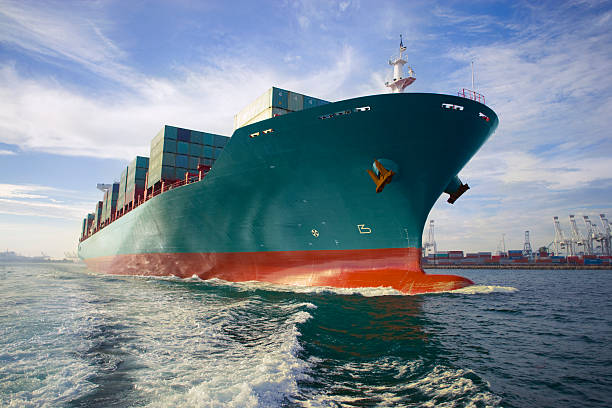
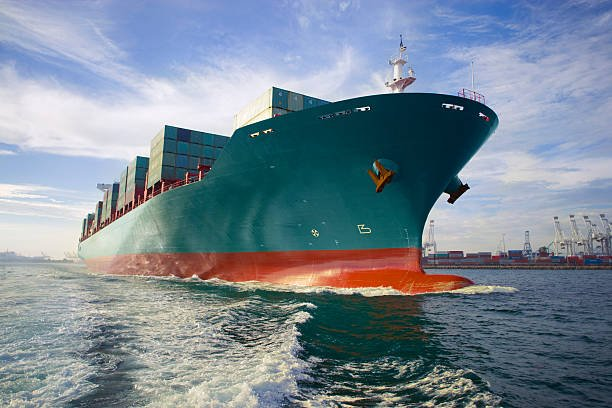
fix(seo): update homepage site name, add WebSite schema, and add workers.dev 301 safeguard

diff --git a/middleware.ts b/middleware.ts
@@ -1,25 +1,95 @@
 import { NextResponse, type NextRequest } from 'next/server';
 import { createServerClient } from '@supabase/ssr';
 import { getStaticRedirectManifest } from '@/lib/cms/redirect-exporter';
+import { getCloudflareContext } from '@opennextjs/cloudflare';
 
 export async function middleware(request: NextRequest) {
-  const { pathname } = request.nextUrl;
+  // 0. Dedicated Host Redirect for workers.dev safeguard
+  const rawHost = request.headers.get('host') || request.nextUrl.hostname;
+  const host = rawHost.split(':')[0].toLowerCase();
+  if (host === 'cargo.raahiinternational4.workers.dev') {
+    const { pathname, search } = request.nextUrl;
+    return NextResponse.redirect(`https://raahiinternational.com${pathname}${search}`, 301);
+  }
 
-  // 1. Static 301 Redirect Manifest
+  const { pathname } = request.nextUrl;
+  const method = request.method;
+
+  // 1. Static 301 Redirect Manifest (Fast path)
   const redirects = getStaticRedirectManifest();
   const matchedRedirect = redirects.find((r) => r.source_path === pathname);
   if (matchedRedirect) {
     return NextResponse.redirect(new URL(matchedRedirect.target_path, request.url), matchedRedirect.status_code);
   }
 
-  // 2. EXEMPT /admin/login explicitly - return plain NextResponse.next() immediately
-  if (pathname.startsWith('/admin/login')) {
+  // 2. EXEMPT /admin/login GET requests explicitly - return plain NextResponse.next() immediately
+  if (pathname.startsWith('/admin/login') && method === 'GET') {
     return NextResponse.next();
+  }
+
+  // 3. Endpoint-Specific Rate Limiting (SENSITIVE / MUTATING POST REQUESTS ONLY)
+  // Public GET page requests, RSC flight prefetch calls, and static assets bypass application rate limiting completely.
+  if (method === 'POST') {
+    let rateLimitKeyPrefix: string | null = null;
+
+    if (pathname === '/api/quote') {
+      rateLimitKeyPrefix = 'quote:';
+    } else if (pathname === '/api/track') {
+      rateLimitKeyPrefix = 'track:';
+    } else if (pathname.startsWith('/admin/login')) {
+      rateLimitKeyPrefix = 'auth:';
+    }
+
+    if (rateLimitKeyPrefix) {
+      try {
+        const ctx = getCloudflareContext();
+        const env = ctx?.env as { RATE_LIMITER?: { limit: (opts: { key: string }) => Promise<{ success: boolean }> } } | undefined;
+        if (env?.RATE_LIMITER) {
+          const ip = request.headers.get('cf-connecting-ip') || request.headers.get('x-forwarded-for') || '127.0.0.1';
+          const { success } = await env.RATE_LIMITER.limit({ key: `${rateLimitKeyPrefix}${ip}` });
+          if (!success) {
+            const isApi = pathname.startsWith('/api/');
+            if (isApi) {
+              return NextResponse.json(
+                {
+                  success: false,
+                  error: 'Too many requests. Please wait 60 seconds before trying again.',
+                  retryAfter: 60,
+                },
+                {
+                  status: 429,
+                  headers: {
+                    'Retry-After': '60',
+                    'Content-Type': 'application/json',
+                  },
+                }
+              );
+            }
+            return NextResponse.json(
+              {
+                success: false,
+                error: 'Too many authentication attempts. Please wait 60 seconds before trying again.',
+                retryAfter: 60,
+              },
+              {
+                status: 429,
+                headers: {
+                  'Retry-After': '60',
+                  'Content-Type': 'application/json',
+                },
+              }
+            );
+          }
+        }
+      } catch {
+        // Gracefully continue if Cloudflare context is not available in non-CF environments
+      }
+    }
   }
 
   const response = NextResponse.next();
 
-  // 3. Refresh Supabase Session Cookies ONLY for protected /admin routes
+  // 4. Refresh Supabase Session Cookies ONLY for protected /admin routes
   if (pathname.startsWith('/admin')) {
     const supabaseUrl = process.env.NEXT_PUBLIC_SUPABASE_URL || '';
     const supabaseKey = process.env.NEXT_PUBLIC_SUPABASE_PUBLISHABLE_KEY || '';
@@ -45,5 +115,5 @@ export async function middleware(request: NextRequest) {
 }
 
 export const config = {
-  matcher: ['/admin/:path*', '/((?!_next/static|_next/image|favicon.ico).*)'],
+  matcher: ['/((?!_next/static|_next/image|favicon.ico|.*\\.(?:svg|png|jpg|jpeg|gif|webp|ico|css|js|woff2?)).*)'],
 };

diff --git a/app/sitemap.ts b/app/sitemap.ts
@@ -1,8 +1,11 @@
 import { MetadataRoute } from 'next';
-import { siteConfig } from '@/config/site.config';
 import { getEnabledServices } from '@/config/services.config';
 import { getPublishedLocations } from '@/lib/locations/location-content';
-import { getSanityLocationsList } from '@/sanity/lib/fetch';
+import {
+  getSanityLocationsList,
+  getSanityDestinationsList,
+  getSanityGuidesList,
+} from '@/sanity/lib/fetch';
 import { getPublishedDestinations } from '@/lib/destinations/destination-content';
 import { getPublishedStaticArticles } from '@/lib/guides/guide-content';
 
@@ -18,7 +21,6 @@ export default async function sitemap(): Promise<MetadataRoute.Sitemap> {
     '/locations',
     '/quote',
     '/track',
-    '/contact',
     '/guides',
   ];
 
@@ -34,32 +36,43 @@ export default async function sitemap(): Promise<MetadataRoute.Sitemap> {
   const activeLocations = sanityLocations.length > 0 ? sanityLocations : fallbackLocations;
   const locationRoutes = activeLocations.map((l) => `/locations/${l.slug}`);
 
-  // 3. Dynamically map ONLY published & verified destination countries & cities
-  const publishedDestinations = await getPublishedDestinations();
+  // 3. Dynamically map ONLY published & verified destination countries & cities from Sanity
+  const sanityDestinations = await getSanityDestinationsList();
+  const fallbackDestinations = await getPublishedDestinations();
+  const activeDestinations = sanityDestinations.length > 0 ? sanityDestinations : fallbackDestinations;
   const destinationRoutes: string[] = [];
 
-  for (const country of publishedDestinations) {
-    destinationRoutes.push(`/destinations/${country.slug}`);
-    for (const city of country.cities) {
-      if (city.status === 'published' && city.isVerified === true && city.isIndexable === true) {
-        destinationRoutes.push(`/destinations/${country.slug}/${city.slug}`);
+  for (const country of activeDestinations) {
+    if (country.slug) {
+      destinationRoutes.push(`/destinations/${country.slug}`);
+    }
+    if (country.cities && country.cities.length > 0) {
+      for (const city of country.cities) {
+        if (city.slug) {
+          destinationRoutes.push(`/destinations/${country.slug}/${city.slug}`);
+        }
       }
     }
   }
 
-  // 4. Dynamically map ONLY published & verified educational guides (excluding redirected guides)
-  const publishedArticles = getPublishedStaticArticles();
-  const guideRoutes = publishedArticles
-    .filter((a) => a.slug !== 'air-vs-sea-cargo')
+  // 4. Dynamically map ONLY published & verified educational guides from Sanity (excluding redirected guides)
+  const sanityGuides = await getSanityGuidesList();
+  const fallbackArticles = getPublishedStaticArticles();
+  const activeGuides = sanityGuides.length > 0 ? sanityGuides : fallbackArticles;
+  const guideRoutes = activeGuides
+    .filter((a) => a.slug && a.slug !== 'air-vs-sea-cargo')
     .map((a) => `/guides/${a.slug}`);
 
-  const allRoutes = [
-    ...staticRoutes,
-    ...serviceRoutes,
-    ...locationRoutes,
-    ...destinationRoutes,
-    ...guideRoutes,
-  ];
+  // Deduplicate all generated routes to guarantee clean unique entries
+  const allRoutes = Array.from(
+    new Set([
+      ...staticRoutes,
+      ...serviceRoutes,
+      ...locationRoutes,
+      ...destinationRoutes,
+      ...guideRoutes,
+    ])
+  );
 
   return allRoutes.map((route) => ({
     url: `${baseUrl}${route}`,

diff --git a/app/(public)/page.tsx b/app/(public)/page.tsx
@@ -23,15 +23,10 @@ export async function generateMetadata(): Promise<Metadata> {
     getSanitySiteSettingsData({ stega: false }),
   ]);
 
-  const title =
-    sanityHomepage?.seo?.metaTitle ||
-    sanitySiteSettings?.defaultSeoTitle ||
-    'Raahi International — Cargo Shipping & Door-to-Door Delivery From Pakistan';
+  const title = 'Raahi International | International Cargo & Logistics';
 
   const description =
-    sanityHomepage?.seo?.metaDescription ||
-    sanitySiteSettings?.defaultSeoDescription ||
-    'Reliable air cargo and sea cargo shipping with doorstep pickup across Pakistan and door-to-door delivery to UK, UAE, USA, Canada, KSA & worldwide.';
+    'International cargo and door-to-door shipping from Pakistan by air and sea. Get a fast quote and reliable delivery from Raahi International.';
 
   const socialImage =
     sanityHomepage?.seo?.socialImage ||
@@ -43,6 +38,8 @@ export async function generateMetadata(): Promise<Metadata> {
     openGraph: {
       title,
       description,
+      url: 'https://raahiinternational.com/',
+      siteName: 'Raahi International',
       images: socialImage ? [{ url: socialImage }] : [],
     },
     twitter: {
@@ -64,8 +61,20 @@ export default async function HomePage() {
 
   const activeWhatsapp = sanitySiteSettings?.whatsappNumber || business.whatsappNumber;
 
+  const websiteJsonLd = {
+    '@context': 'https://schema.org',
+    '@type': 'WebSite',
+    name: 'Raahi International',
+    alternateName: 'Raahi',
+    url: 'https://raahiinternational.com/',
+  };
+
   return (
     <div className="w-full pb-16 sm:pb-0">
+      <script
+        type="application/ld+json"
+        dangerouslySetInnerHTML={{ __html: JSON.stringify(websiteJsonLd) }}
+      />
       {/* 01. HERO */}
       {blocks.hero?.enabled && (
         <HeroSection

diff --git a/components/sections/ServicesOverview.tsx b/components/sections/ServicesOverview.tsx
@@ -97,7 +97,7 @@ export const ServicesOverview: React.FC<ServicesOverviewProps> = ({
                   src={airImage}
                   alt={airAlt}
                   fill
-                  sizes="(max-width: 768px) 100vw, 600px"
+                  sizes="(max-width: 768px) 90vw, 600px"
                   className="object-cover object-center group-hover:scale-102 transition-transform duration-500"
                 />
                 <div className="absolute inset-0 bg-gradient-to-t from-brand-black/90 via-transparent to-transparent" />
@@ -139,7 +139,7 @@ export const ServicesOverview: React.FC<ServicesOverviewProps> = ({
                   src={seaImage}
                   alt={seaAlt}
                   fill
-                  sizes="(max-width: 768px) 100vw, 600px"
+                  sizes="(max-width: 768px) 90vw, 600px"
                   className="object-cover object-center group-hover:scale-102 transition-transform duration-500"
                 />
                 <div className="absolute inset-0 bg-gradient-to-t from-brand-black/90 via-transparent to-transparent" />

diff --git a/next.config.ts b/next.config.ts
@@ -1,14 +1,42 @@
 import type { NextConfig } from "next";
 
 const nextConfig: NextConfig = {
+  images: {
+    formats: ['image/avif', 'image/webp'],
+    minimumCacheTTL: 31536000,
+  },
   transpilePackages: [
     'next-sanity',
     'sanity',
     '@sanity/sdk-react',
     '@sanity/workbench',
   ],
+  async headers() {
+    return [
+      {
+        source: '/:path*',
+        headers: [
+          {
+            key: 'Strict-Transport-Security',
+            value: 'max-age=31536000; includeSubDomains',
+          },
+        ],
+      },
+    ];
+  },
   async redirects() {
     return [
+      {
+        source: '/:path*',
+        has: [
+          {
+            type: 'host',
+            value: 'www.raahiinternational.com',
+          },
+        ],
+        destination: 'https://raahiinternational.com/:path*',
+        permanent: true,
+      },
       {
         source: '/services/air-freight',
         destination: '/cargo-services',

diff --git a/components/layout/TopBar.tsx b/components/layout/TopBar.tsx
@@ -1,7 +1,6 @@
 import React from 'react';
 import Link from 'next/link';
 import { Phone, Search, ShieldCheck, MessageSquare } from 'lucide-react';
-import { siteConfig } from '@/config/site.config';
 import { Container } from '@/components/ui/Container';
 import { getPublishedBusinessSettings } from '@/lib/cms/business-settings.service';
 import { buildWhatsappUrl } from '@/lib/utils/whatsapp';

diff --git a/components/locations/LocationBlogArticle.tsx b/components/locations/LocationBlogArticle.tsx
@@ -17,7 +17,6 @@ import { Button } from '@/components/ui/Button';
 import ReactMarkdown from 'react-markdown';
 import rehypeSanitize from 'rehype-sanitize';
 import { buildWhatsappUrl } from '@/lib/utils/whatsapp';
-import { siteConfig } from '@/config/site.config';
 
 export interface LocationBlogArticleProps {
   cityName: string;

diff --git a/components/services/AirFreightServiceContent.tsx b/components/services/AirFreightServiceContent.tsx
@@ -8,7 +8,7 @@ import {
   ListOrdered,
 } from 'lucide-react';
 import { Badge } from '@/components/ui/Badge';
-import { SanityCargoPricingData, SanityCargoRateItem } from '@/sanity/lib/fetch';
+import { SanityCargoPricingData } from '@/sanity/lib/fetch';
 
 interface AirFreightServiceContentProps {
   phone?: string;

diff --git a/app/(public)/guides/[slug]/page.tsx b/app/(public)/guides/[slug]/page.tsx
@@ -1,6 +1,6 @@
 import React from 'react';
 import { Metadata } from 'next';
-import { notFound, permanentRedirect } from 'next/navigation';
+import { notFound } from 'next/navigation';
 import { Container } from '@/components/ui/Container';
 import {
   getPublishedStaticArticles,

diff --git a/sanity/lib/client.ts b/sanity/lib/client.ts
@@ -5,7 +5,7 @@ export const client = createClient({
   projectId: isSanityConfigured ? projectId : 'vst9vvau',
   dataset: dataset || 'production',
   apiVersion,
-  useCdn: false,
+  useCdn: true,
   stega: {
     studioUrl: 'https://raahi-international.sanity.studio',
   },

diff --git a/lib/seo/metadata.service.ts b/lib/seo/metadata.service.ts
@@ -21,6 +21,7 @@ export function constructMetadata({
 
   return {
     metadataBase: new URL('https://raahiinternational.com'),
+    applicationName: siteConfig.name,
     title: fullTitle,
     description,
     verification: {

diff --git a/lib/utils/whatsapp.ts b/lib/utils/whatsapp.ts
@@ -1,5 +1,3 @@
-import { siteConfig } from '@/config/site.config';
-
 /**
  * Clean & sanitize WhatsApp phone number to digits only (e.g. "+92 300 1234567" -> "923001234567")
  */
